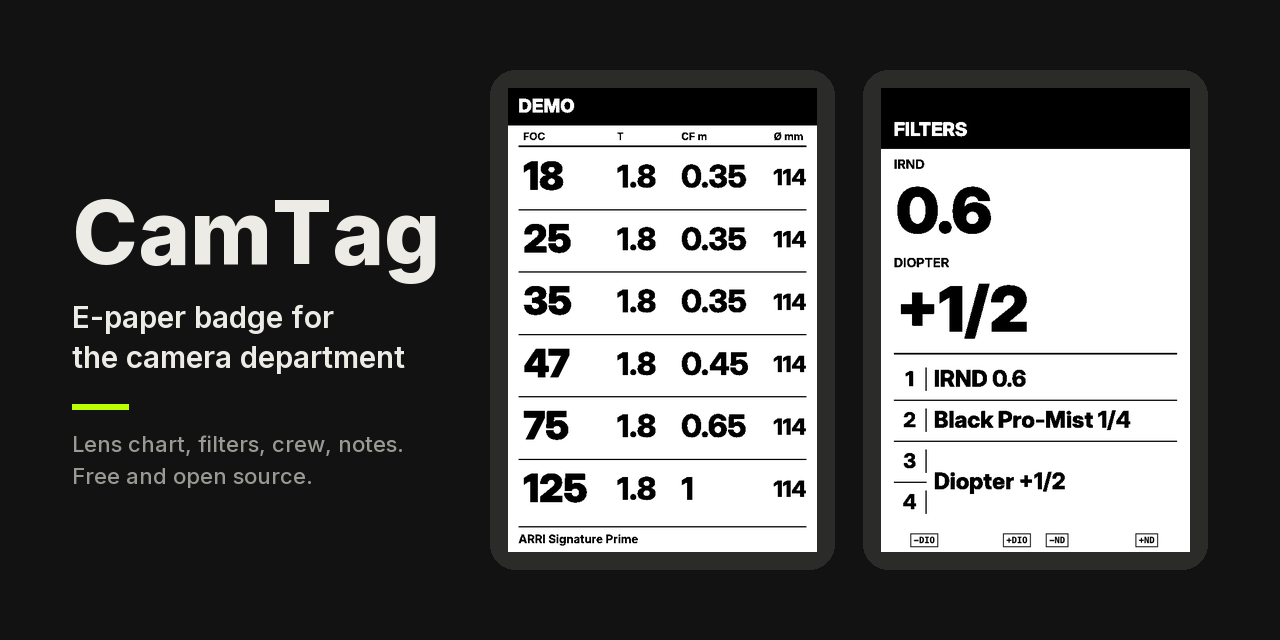
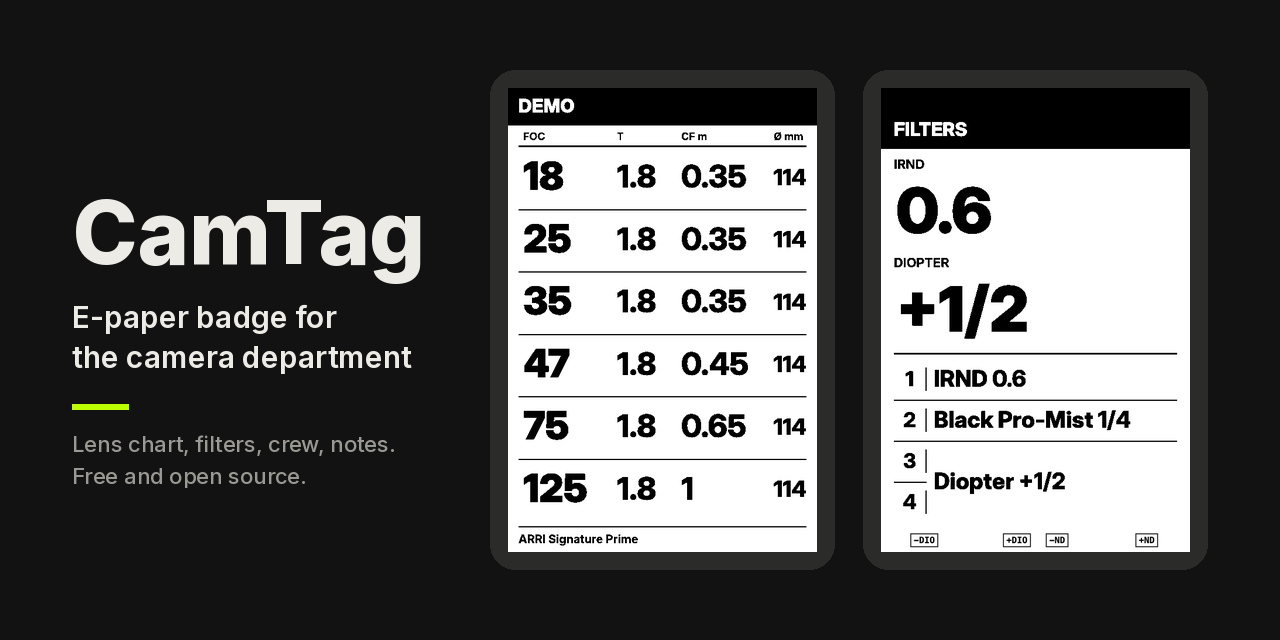
Immagini promo dalle nuove schermate; grafica 0.5.2 provata sull'X3

diff --git a/CLAUDE.md b/CLAUDE.md
@@ -488,7 +488,8 @@ aggiornamento del firmware via Bluetooth (864 KB in 26 s; il nuovo parte in prov
 `stato 1`, e si conferma: il bootloader ha il rollback), tutto anche da iPhone con
 BLE Link e Bluefy (utilizzabili tutti e due), card vere, X/Y per tipo e A–D
 dentro il tipo (0.5.0), rotazione (soglie confermate in giorni d'uso) e blocco,
-niente ghosting con `FULL_REFRESH_EVERY` = 6, bilancieri della lens chart nei 4 versi. Tasti, assi IMU e verso dello schermo sono tarati sull'X3 (`kKeyA`…`kKeyD`, `kKeyX`, `kKeyY`,
+niente ghosting con `FULL_REFRESH_EVERY` = 6, bilancieri della lens chart nei 4 versi,
+grafica della 0.5.2 (logo, linguette, schermata di spento; 23/11/2026). Tasti, assi IMU e verso dello schermo sono tarati sull'X3 (`kKeyA`…`kKeyD`, `kKeyX`, `kKeyY`,
 `kImuSwapXY`, `kImuSignX`, `kImuSignY`, `kQuarterTurns` in `device/src/main.cpp`:
 la posizione naturale è `Canvas::ROT_270`).
 
